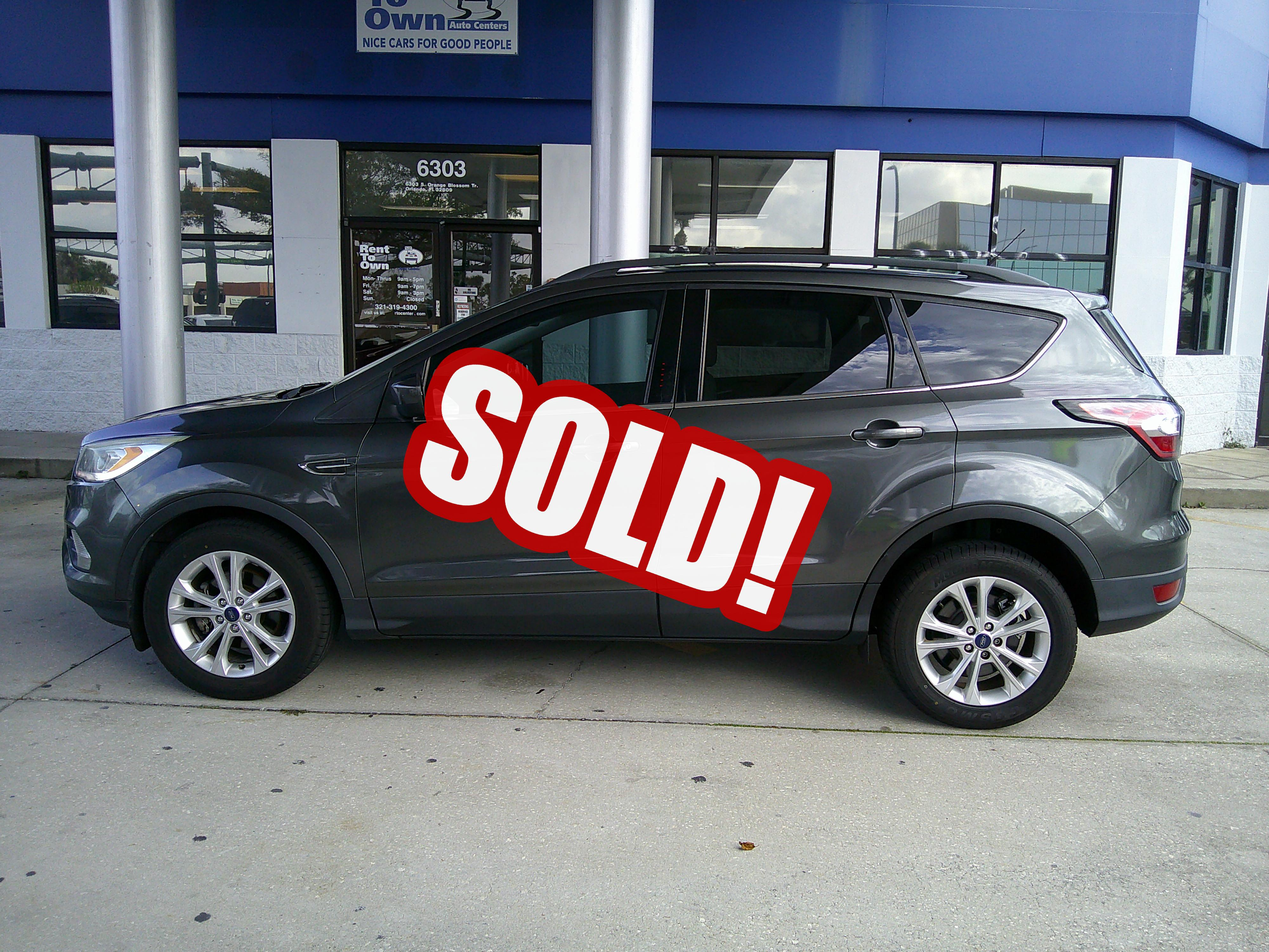
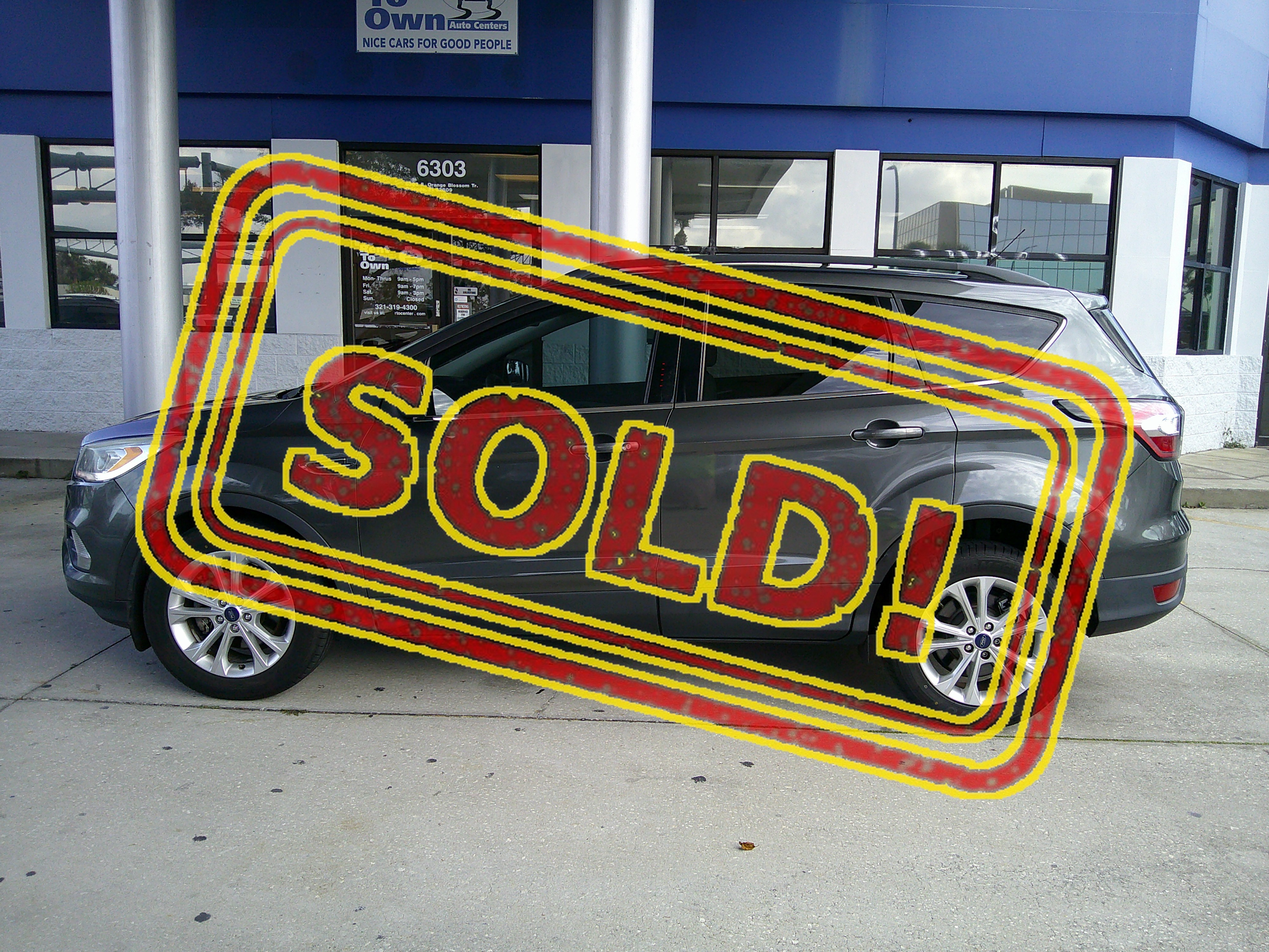
SOLDRTO: mark RTO9012 as sold

Changed region(s): [[0.0938, 0.155, 0.9062, 0.837]]

diff --git a/orlando.html b/orlando.html
@@ -624,11 +624,11 @@
       <!-- start of car -->
       <div class="col-md-4 mb-4">
         <div class="card">
-          <img src="./images/cars/9012_1.JPG" height="261" width="348" class="card-img-top" alt="..." />
+          <img src="./images/cars/sold/9012_1.JPG" height="261" width="348" class="card-img-top" alt="..." />
 
           <div class="card-body">
             <h5 class="card-title">2017 FORD ESCAPE ECOBOOST </h5>
-            <p class="card-text">RTO9012 <span style="color:red "> RTO with $700 DOWN! </span> </p>
+            <p class="card-text">RTO9012 <span style="color:red "> SOLD! </span> </p>
             <!-- <a href="#" class="btn btn-primary">View Details</a>  -->
           </div>
         </div>
